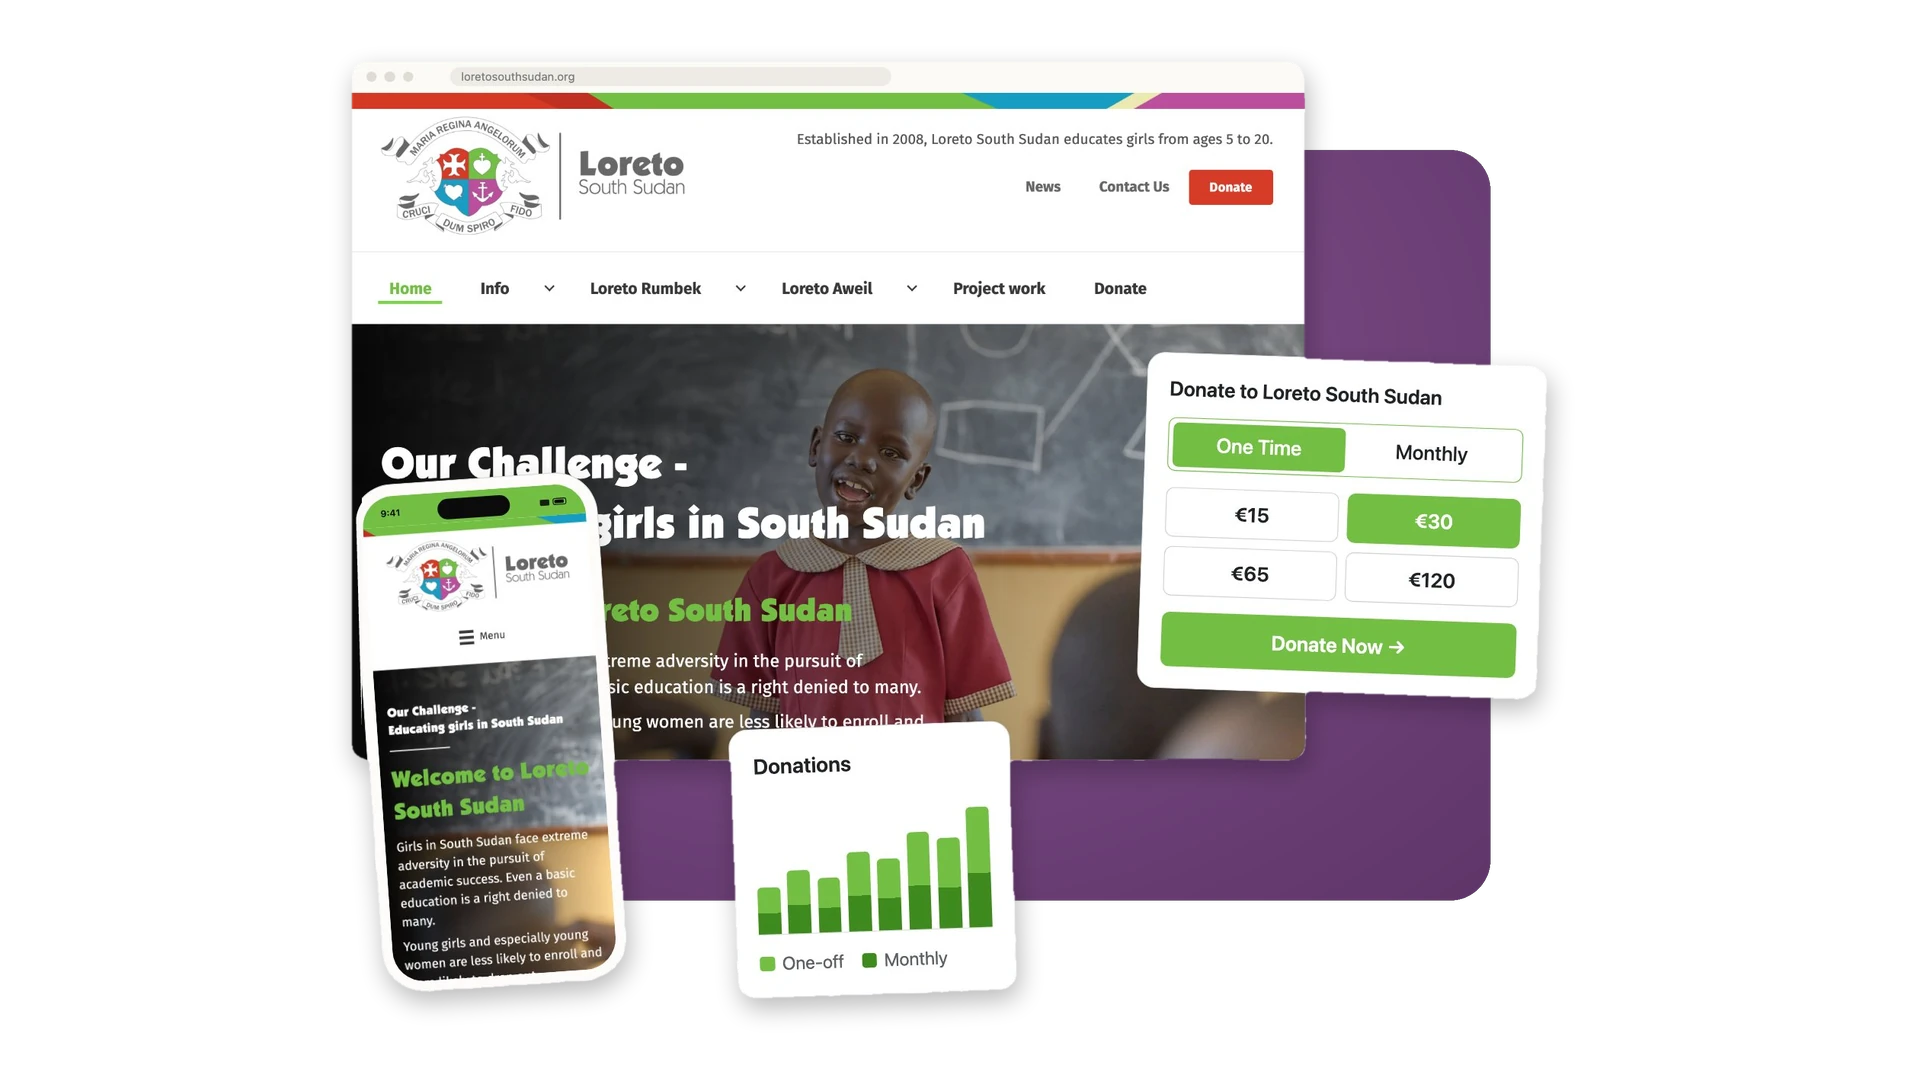
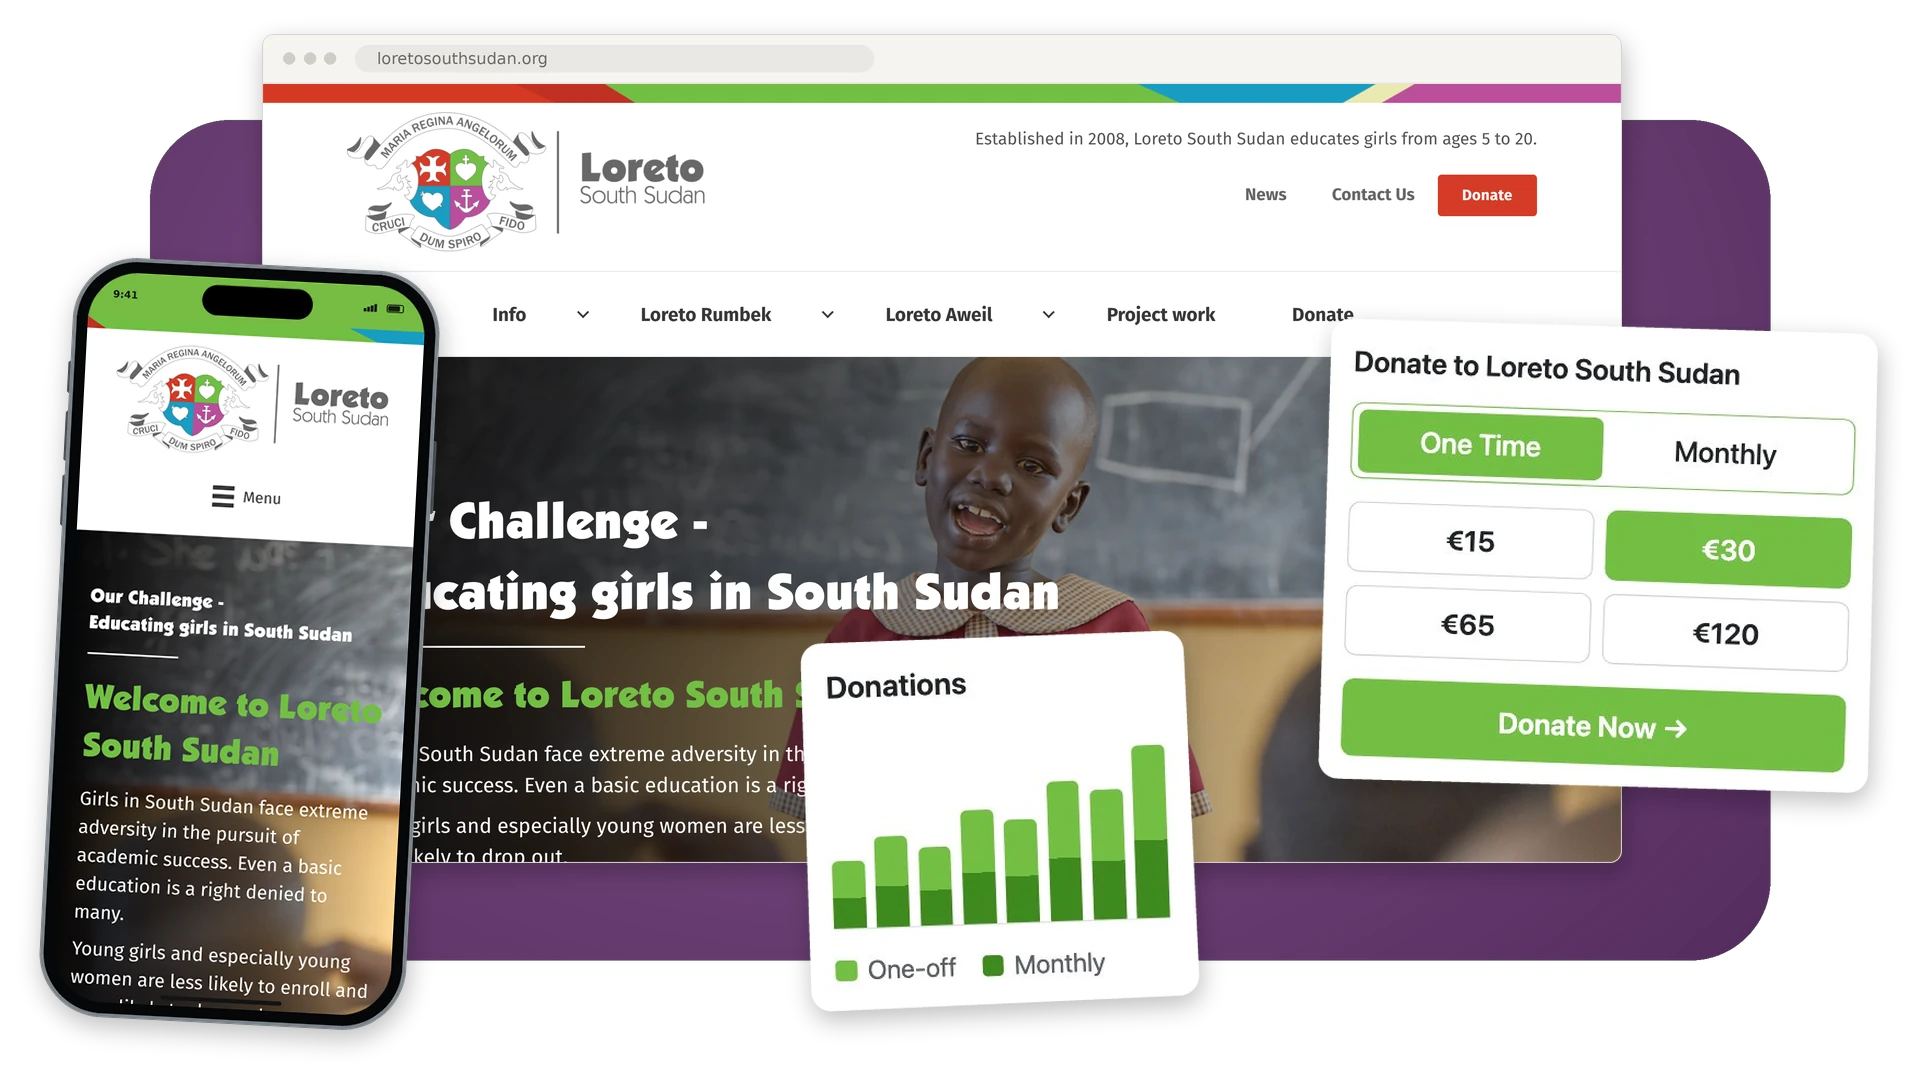
Work cards: new float thumbnails, capability tags for LMS, Shopify, CRM, booking and AI support bot

diff --git a/src/content.config.ts b/src/content.config.ts
@@ -61,7 +61,7 @@ const projects = defineCollection({
     // craft value. AI is a block inside Web Development, not a pillar, so it
     // must not grow its own section on the Work page. Same for accessibility,
     // bilingual, e-commerce and LMS.
-    capabilities: z.array(z.enum(['ai', 'accessibility', 'bilingual', 'ecommerce', 'lms'])).default([]),
+    capabilities: z.array(z.enum(['ai', 'ai-bot', 'accessibility', 'bilingual', 'ecommerce', 'lms', 'shopify', 'crm', 'booking'])).default([]),
     // Short muted loop for the Work grid, three to six seconds, a few hundred
     // KB, self-hosted in /public. Not a Vimeo embed: six iframes would eat the
     // 15KB JS budget in BUILD-SPEC section 9 and set cookies. The full film

diff --git a/src/content/projects/our-world-awards.md b/src/content/projects/our-world-awards.md
@@ -6,11 +6,11 @@ year: 2026 # TODO: confirm the year before launch
 craft: "web"
 summary: "A bilingual website for Irish Aid's Our World Awards for primary schools, built in partnership with Real Nation, who designed and ran the project."
 cover: "/work/our-world-awards-card.jpg"
-thumb: "/work/thumbs/our-world-awards-float.webp"
+thumb: "/work/thumbs/our-world-awards-float-v2.webp"
 liveUrl: "https://ourworldawards.ie/"
 services:
   - "Web Development"
-capabilities: ["bilingual"]
+capabilities: []
 order: 6
 draft: false
 ---

diff --git a/src/content/projects/crownway-investments.md b/src/content/projects/crownway-investments.md
@@ -5,7 +5,7 @@ year: 2026
 craft: "web"
 summary: "A website for Crownway Investments, a Dublin firm investing in real estate and private equity."
 cover: "/work/crownway-card.jpg"
-thumb: "/work/thumbs/crownway-investments-16x9.jpg"
+thumb: "/work/thumbs/crownway-investments-float-v2.webp"
 # TODO: crownway.ie is not live yet (22 September 2026). The site is on
 # its Vercel preview until then. Switch this to https://crownway.ie/ when
 # it launches, and before this site launches.

diff --git a/src/content/projects/loreto-rumbek-donation-platform.md b/src/content/projects/loreto-rumbek-donation-platform.md
@@ -8,7 +8,7 @@ summary: "Brand, website and online donation platform for Loreto South Sudan, wh
 # the GiveWP donation form and donations chart used on the homepage tablet.
 # The chart shows no figures: there are no public totals.
 cover: "/work/loreto-south-sudan-card.jpg"
-thumb: "/work/thumbs/loreto-rumbek-donation-platform-float.webp"
+thumb: "/work/thumbs/loreto-rumbek-donation-platform-float-v2.webp"
 liveUrl: "https://loretosouthsudan.org/"
 services:
   - "Branding"

diff --git a/src/content/projects/sports-club-websites.md b/src/content/projects/sports-club-websites.md
@@ -5,7 +5,7 @@ year: 2023
 craft: "web"
 summary: "We developed and support websites belonging to two of Ireland's most well know Hockey Clubs - Pembroke Wanderers and Loreto Hockey Club."
 cover: "/work/pwhc-pi2.jpg"
-thumb: "/work/thumbs/sports-club-websites-16x9.jpg"
+thumb: "/work/thumbs/sports-club-websites-float.webp"
 liveUrl: "https://pembrokewanderers.ie/"
 services:
   - "Web Development"

diff --git a/src/content/projects/merrion-clinic.md b/src/content/projects/merrion-clinic.md
@@ -13,6 +13,7 @@ services:
   - "Booking"
 order: 8
 draft: false
+capabilities: ["shopify"]
 ---
 Merrion Medical Aesthetics are a busy aesthetic clinic in Toronto who also sell premium health and skincare products through their website.
 

diff --git a/src/content/projects/jill-collins-therapy-web-development-and-branding.md b/src/content/projects/jill-collins-therapy-web-development-and-branding.md
@@ -12,6 +12,7 @@ services:
   - "Booking Integration"
 order: 13
 draft: false
+capabilities: ["booking"]
 ---
 Project Overview:
 

diff --git a/src/content/projects/off-script-tapes.md b/src/content/projects/off-script-tapes.md
@@ -11,4 +11,5 @@ services:
   - "Web Development"
 order: 10
 draft: false
+capabilities: ["booking"]
 ---
